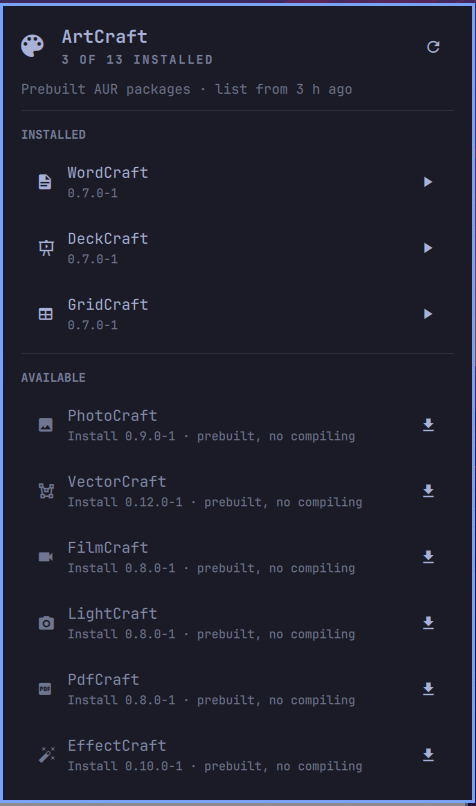
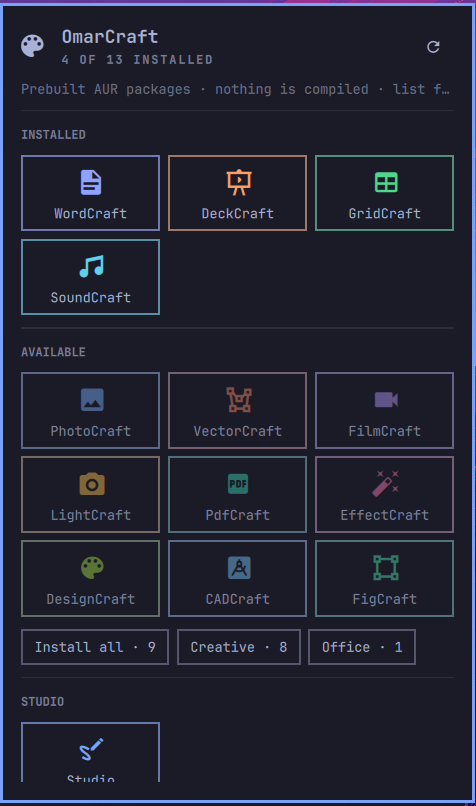
Docs for the two layouts and per-app updates; shorter status line; preview of the tiles
approved-plan decision 6 amended (package-exact updates through the AUR
helper, user decision 2026-10-17) and decision 7 added (tiles/rows under
evaluation); spec, design (tiles mockup, colours, grid movement, confirm
strip), research § F (how tiles vs rows is decided), README, CHANGELOG,
Testing.md and the submission text follow. Acceptance row 13 recorded:
the user's SoundCraft install ran through the panel's job path.

diff --git a/Model.js b/Model.js
@@ -135,7 +135,7 @@ function standingLine(craft) {
                           : "Last job exited with status " + lj.exit + " · see the terminal"
   }
   if (craft.offline) return "Could not reach the AUR · list from " + ageText(craft.catalogAgeSeconds)
-  return "Prebuilt AUR packages · nothing is compiled · list from " + ageText(craft.catalogAgeSeconds)
+  return "Prebuilt · nothing compiled · list from " + ageText(craft.catalogAgeSeconds)
 }
 
 function subtext(app, craft) {

diff --git a/README.md b/README.md
@@ -32,14 +32,23 @@ omarcraft.productivity` finishes the placement. Updates: `omarchy plugin update 
 
 ## The panel
 
-Left-click the icon (or `Tab` from a neighbouring panel).
+Left-click the icon (or `Tab` from a neighbouring panel). Two layouts, switched live with `t` or
+`omarchy bar set omarcraft.productivity layout tiles|rows`:
+
+- **Tiles** (default): three apps per line, each tile the app's glyph in its own ArtCraft colour over its
+  name. Installed tiles are full strength; available ones dimmed. Hover for the version and state. A small
+  `` in a tile's corner means a newer build is ready.
+- **Rows**: one app per line with a caption (`0.7.0-1`, `Update ready 0.7.0-1 → 0.8.0-1`, `Install
+  0.9.0-1 · prebuilt, no compiling`) and one action at the right edge.
+
+In both:
 
 - **Hero.** The one-line situation: `3 OF 13 INSTALLED`, `2 UPDATES READY`, `INSTALLING WORDCRAFT…`,
   `NOTHING INSTALLED YET`, `OFFLINE · CACHED LIST`, `LAST JOB FAILED`. The circular arrow at the right
   checks the AUR now.
-- **INSTALLED.** Your apps with their version. `Enter` or the ▶ action launches one; if its window is
-  already open it is focused instead. A row with a newer build reads `Update ready 0.7.0-1 → 0.8.0-1`
-  and *Update all* appears in the status line.
+- **INSTALLED.** Your apps. `Enter` or a click launches one; if its window is already open it is focused
+  instead. When a newer build is ready, `Enter` asks instead: *Update ⏎* (just that package), *Launch
+  instead*, or *Cancel*. *Update all* in the status line takes every app with a newer build.
 - **AVAILABLE.** The rest, dimmed, with `Install 0.9.0-1 · prebuilt, no compiling`. `Enter` or the
   download action opens a one-line confirm under the row naming the exact package and that a terminal
   will open and ask for your password; `Enter` again runs it, `Esc` cancels. A newly added Craft app shows
@@ -54,8 +63,9 @@ While a job runs the row shows a spinner and `Installing…`, the hero says what
 is greyed out, and the terminal is the place to type your password. When the terminal finishes the panel
 re-reads the package database: what you see is what is installed, never what a click intended.
 
-**Keys:** `j`/`k` move · `Enter` launch or install · `u` Update all · `a` / `c` / `o` install all /
-Creative / Office · `s` Studio · `r` check the AUR · `Tab` neighbouring panel · `Esc` cancel or close.
+**Keys:** `h`/`l` `j`/`k` move (tiles: one tile, one line) · `Enter` launch, update or install · `u` Update
+all · `a` / `c` / `o` install all / Creative / Office · `s` Studio · `r` check the AUR · `t` switch layout ·
+`Tab` neighbouring panel · `Esc` cancel or close.
 
 **Bar icon:** left = panel · right = ArtCraft Studio · middle = check now. While updates are pending the
 icon turns to the urgent colour and shows the count (`2 `); it also turns urgent after a job that failed.
@@ -63,11 +73,11 @@ icon turns to the urgent colour and shows the count (`2 `); it also turns ur
 ## Updates
 
 Every six hours, and whenever you press `r` or middle-click, OmarCraft compares your installed `-bin`
-packages with the AUR. Newer builds show in the rows, on the icon, and once per new set as a desktop
-notification that opens the panel. *Update all* runs Omarchy's own AUR update
-(`omarchy-update-aur-pkgs`, the step `omarchy update` runs), which upgrades every AUR package on the
-system, not only the Craft apps; the confirm line says so. There is no per-app update. "Newer" means a
-newer AUR build exists, which can trail an ArtCraft release by a day or so.
+packages with the AUR. Newer builds show on the tiles or rows, on the icon, and once per new set as a
+desktop notification that opens the panel. Updates are package-exact: `Enter` on the app updates that
+one, *Update all* (`u`) every app with a newer build, each through the AUR helper Omarchy ships, in a
+floating terminal that asks for your password. `omarchy update` updates them too. "Newer" means a newer
+AUR build exists, which can trail an ArtCraft release by a day or so.
 
 ## Apps installed some other way
 
@@ -97,7 +107,7 @@ $P list                       # catalog with install state
 $P launch <id>                # e.g. photocraft
 $P install <id>...            # floating terminal, one run
 $P install-group all|creative|office
-$P update                     # Omarchy's AUR update, in a floating terminal
+$P update [id...]             # the named apps, or every app with a newer build; floating terminal
 $P check [--notify]           # pending updates; exit 0 if any
 $P refresh [-f]               # fetch catalog and AUR versions now
 $P studio
@@ -107,7 +117,8 @@ $P studio
 omarchy-shell omarcraft.productivity open | close | toggle | refresh | studio
 omarchy-shell omarcraft.productivity launch <id>
 omarchy-shell omarcraft.productivity install "<id> <id>"      # no confirm: a script is explicit
-omarchy-shell omarcraft.productivity update
+omarchy-shell omarcraft.productivity update "<id> <id>"      # or "" for every app with a newer build
+omarchy-shell omarcraft.productivity layout tiles|rows
 omarchy-shell omarcraft.productivity status                   # JSON
 ```
 
@@ -141,9 +152,9 @@ plus `$P remove-menu` before removing if you ran `setup-menu`, and the keybindin
 ## Safety
 
 - Only `<id>-bin` package names, checked against the catalog and a strict pattern, ever reach a package
-  command. The plugin never calls sudo or pkexec, and never calls the package manager or the AUR helper
-  directly: installs go through `omarchy-pkg-aur-add`, updates through `omarchy-update-aur-pkgs`, both in
-  a visible Omarchy terminal that asks for your password itself.
+  command. The plugin never calls sudo or pkexec. Installs go through Omarchy's `omarchy-pkg-aur-add`;
+  updates call the AUR helper Omarchy ships for exactly the named packages; both run in a visible Omarchy
+  terminal that asks for your password itself.
 - Network use: the app catalog from `raw.githubusercontent.com` (storytold/craft-launcher) and versions
   from the AUR RPC, every 24 hours, with bounded timeouts; a failed check keeps the old list and says
   `OFFLINE`, never "up to date". The panel itself never waits on the network.
@@ -155,7 +166,8 @@ plus `$P remove-menu` before removing if you ran `setup-menu`, and the keybindin
 | Path | Role |
 |---|---|
 | `manifest.json` | `kinds: ["bar-widget"]`, entry point `Panel.qml`, default section right |
-| `Panel.qml` | Bar icon, `KeyboardPanel`, sections, cursor, confirm line, keys, IPC |
+| `Panel.qml` | Bar icon, `KeyboardPanel`, both layouts, cursor, confirm, keys, IPC |
+| `AppTile.qml` | One tile: glyph in the app's ArtCraft colour over its name |
 | `AppRow.qml` | One row: glyph · name · subtext · right-edge action, Network-panel style |
 | `Service.qml` | Runs `bin/omarcraft state`, watches `job.json`, six-hourly check |
 | `Model.js` | Pure helpers: sections, meta line, subtexts, confirm text |
@@ -183,5 +195,6 @@ Release and marketplace steps: [docs/Publish-Guide.md](docs/Publish-Guide.md). C
 ## Credits and license
 
 MIT, see [LICENSE](LICENSE). By Entangled Forge. The Craft apps, ArtCraft Studio and the app catalog are by
-[Storyteller](https://github.com/storytold); the `-bin` packages are maintained by their AUR packagers. The
-panel follows Omarchy's first-party Network and Power panels and Entangled Forge's OmasteelRGB.
+[Storyteller](https://github.com/storytold), as are the per-app colours, taken from their launcher's catalog;
+the `-bin` packages are maintained by their AUR packagers. The panel follows Omarchy's first-party Network
+and Power panels and Entangled Forge's OmasteelRGB.

diff --git a/docs/v1-design.md b/docs/v1-design.md
@@ -106,15 +106,15 @@ omarchy-pkg-aur-add wordcraft-bin deckcraft-bin; rc=$?   # Omarchy's AUR add: th
 end_job $rc                              # rm job.json; last-job.json {verb, ids, exit, endedAt}
 omarchy-shell -q omarcraft.productivity refresh
 
-# bin/omarcraft job update
-write_job update <all update-ready ids>
-omarchy-update-aur-pkgs; rc=$?           # Omarchy's own AUR updater, the same step `omarchy update` runs
+# bin/omarcraft job update wordcraft      (or no ids: every app with a newer build)
+write_job update wordcraft
+yay -S --noconfirm wordcraft-bin; rc=$?   # package-exact, the helper Omarchy ships
 end_job $rc; omarchy-shell -q omarcraft.productivity refresh
 ```
 
-`omarchy-update-aur-pkgs` upgrades every AUR package, not only the Craft apps; the panel says so on the
-*Update all* control (`Runs Omarchy's AUR update`). That is the trade for staying inside Omarchy's commands;
-the alternative, a package-exact update with a literal helper call, is `approved-plan.md` decision 6.
+> **Amended 2026-10-17:** updates are package-exact. `job update <ids>` runs
+> `yay -S --noconfirm <id>-bin…` (the helper Omarchy ships) for exactly those packages; `omarchy-update-aur-pkgs`
+> is no longer used. See `approved-plan.md` decision 6.
 
 ## Bar
 
@@ -135,7 +135,66 @@ the alternative, a package-exact update with a literal helper call, is `approved
 - Placement: `defaultSection: "right"`, category Productivity; lands with tray, agents, bluetooth,
   network, audio, monitor, power. Never left (navigation) or centre (status and clock).
 
-## Panel
+## Layouts (amended 2026-10-17)
+
+Two layouts share the data, cursor, confirm and job model; `setting("layout", "tiles")` picks one
+(`omarchy bar set omarcraft.productivity layout tiles|rows`, the `t` key, or IPC `layout`, stored inline
+in `shell.json` the way Power stores `showPercentage`). **Tiles** is the default under evaluation; **rows**
+is the first build. The research plan (§ F) decides which ships.
+
+### Tiles: three per line, the app's own colour
+
+```
+   OmarCraft                                  
+     4 OF 13 INSTALLED
+
+ Prebuilt · nothing compiled · list from 3 h ago
+ ────────────────────────────────────────────────
+ INSTALLED
+ ┌──────────┐ ┌──────────┐ ┌──────────┐
+ │         │ │         │ │         │
+ │ WordCraft│ │ DeckCraft│ │ GridCraft│
+ └──────────┘ └──────────┘ └──────────┘
+ ┌──────────┐
+ │       │   ← update mark, urgent colour
+ │SoundCraft│
+ └──────────┘
+ ────────────────────────────────────────────────
+ AVAILABLE
+ ┌──────────┐ ┌──────────┐ ┌──────────┐
+ │         │ │         │ │         │   dimmed: glyph at 45 %, name at 70 %
+ │PhotoCraft│ │VectorCraf│ │ FilmCraft│
+ └──────────┘ └──────────┘ └──────────┘
+ … three lines of three …
+ [ Install all · 9 ]  [ Creative · 8 ]  [ Office · 1 ]
+ ────────────────────────────────────────────────
+ STUDIO
+ ┌──────────┐
+ │         │
+ │  Studio  │
+ └──────────┘
+ h/l j/k move · ⏎ launch, update or install · u update all · a/c/o · s · r · t rows · esc
+```
+
+- `AppTile.qml`: a `CursorSurface` with `bordered: true`; the glyph at `Style.font.display` in the
+  app's **own ArtCraft colour** (the official catalog's ink colour for dark or light panels, chosen by
+  `Color.popups.background` lightness; the surface colour is the fallback), a 1 px outline in the same
+  colour at 45 % (installed) or 18 % (available), the name at `Style.font.bodySmall` in the theme
+  foreground. Nothing else on the tile; the version and state are the tooltip (`Model.tileTip`). The
+  update mark `` sits in the tile's top-right corner in the urgent colour.
+- Colours come from the catalog, through the cache and the state JSON (`color`, `inkLight`, `inkDark`),
+  never from QML constants; Studio uses `Color.accent`. Everything structural stays theme-coloured, the
+  OmasteelRGB balance (its hero glyph is tinted, its chrome is the theme).
+- Grid: `Grid { columns: 3 }`, tile width `(width − 2·6 px) / 3`; cursor movement `Model.gridMove`:
+  `h`/`l` step one tile, `j`/`k` jump a line and stop at the section edge, then land on the next
+  section's first tile.
+- Confirms are one **strip under the status line** (tiles have no room beneath them). Clicking an
+  installed tile with a newer build opens `wordcraft-bin 0.7.0-1 → 0.8.0-1 · via the AUR helper · a
+  terminal opens and asks your password` with *Update ⏎*, *Launch instead*, *Cancel esc*.
+
+### Rows: one per line with a caption (the first build)
+
+The sections below describe the rows layout; everything about data, bar, keys and jobs applies to both.
 
 ### Normal: three installed, one update ready
 

diff --git a/docs/v1-acceptance.md b/docs/v1-acceptance.md
@@ -46,8 +46,8 @@ commit hash. Nothing ships with a FAIL in the *Must* rows.
   closes the line and nothing runs; `Enter` again opens exactly one floating Omarchy terminal running
   exactly one `omarchy-pkg-aur-add <id>-bin`, which prompts for the password and installs with **no**
   `cargo`, `rustc` or `makepkg build` in the process tree at any time.
-- `grep -rE 'sudo|pkexec|yay |pacman -S' --exclude-dir=.git .` in the plugin folder matches only negated
-  sentences in docs; no command string in code.
+- `grep -rE 'sudo|pkexec|pacman -S' --exclude-dir=.git .` in the plugin folder matches only negated
+  sentences in docs; the AUR helper is called in exactly one place in code, the update job.
 - While the job runs: the row shows the spinner and `Installing…`, the hero reads `INSTALLING <NAME>…`,
   every install/update action is disabled, launch of other installed apps still works.
 - When the job ends successfully: within 1 s the row is under INSTALLED with its version, the meta count
@@ -56,9 +56,12 @@ commit hash. Nothing ships with a FAIL in the *Must* rows.
   with every missing `-bin` package on one line; group chips do the same for their group; no launch
   afterwards.
 - With the FigCraft update fixture: meta reads `1 UPDATE READY`, the bar shows `1 ` in the urgent
-  colour, the row shows `Update ready 0.6.0-1 → 99.0.0-1`, *Update all* is visible and `u` opens a confirm
-  line that names Omarchy's AUR update; the badge and the row return to normal after
-  `bin/omarcraft refresh -f`.
+  colour, the FigCraft tile carries the update mark (row: `Update ready 0.6.0-1 → 99.0.0-1`), *Update
+  all* is visible; `Enter` on FigCraft opens a confirm naming `figcraft-bin 0.6.0-1 → 99.0.0-1` with
+  *Update ⏎*, *Launch instead*, *Cancel*; *Launch instead* launches; the badge and the mark return to
+  normal after `bin/omarcraft refresh -f`.
+- `omarchy bar set omarcraft.productivity layout rows` and `… tiles`, and the `t` key, switch the layout
+  live with the panel open; the cursor, confirm and job state survive the switch.
 - Opening the panel with the network down (`nmcli networking off`) shows the cached list, the meta
   `OFFLINE · CACHED LIST`, and never a blank or "Detecting…" panel; `state` still returns in < 0.3 s.
 - A job whose terminal is killed mid-way leaves no `job.json` older than 30 min reported as running;
@@ -103,7 +106,7 @@ commit hash. Nothing ships with a FAIL in the *Must* rows.
 | 10 | No `sudo`, `pkexec`, helper or `pacman -S` string in code | e7d2615 | PASS | test `no package-manager or privilege strings in the script`; docs use negations only |
 | 11 | Offline tests | e7d2615 | PASS | 71 passed |
 | 12 | Shell loads the plugin with no QML error | e7d2615 | PASS | log clean after `omarchy restart shell`; one transient "File name case mismatch" from the old shell during the git fast-forward, gone after restart |
-| 13 | Real install: one terminal, one Omarchy command, no compiling, row moves to INSTALLED, app launches | | pending | needs the user's password; Testing.md § 3 |
+| 13 | Real install: one terminal, one Omarchy command, no compiling, row moves to INSTALLED, app launches | 17ce259 | PASS (user) | SoundCraft installed by the user through the panel at 17:34: `last-job.json` `install soundcraft` exit 0, `soundcraft-bin 0.7.0-1` present, tile shown under INSTALLED on the next open |
 | 14 | Group install, one command with every package | | pending | Testing.md § 4 |
 | 15 | Studio opens as a web app, second open focuses | | pending | Testing.md § 5 |
 | 16 | Update state: badge, row, *Update all*, one notification | | pending | Testing.md § 6 |

diff --git a/docs/v1-spec.md b/docs/v1-spec.md
@@ -60,10 +60,11 @@ its row says `Source build · updates via omarchy update`.
 7. **Group install**: chips *Install all (N)*, *Creative (N)*, *Office (N)* under the available rows, each
    showing how many are missing; hidden when nothing is missing. Same inline confirm, listing the names.
    One job, every package on one `omarchy-pkg-aur-add` line, no launch afterwards.
-8. **Update**: `u` or *Update all* in the hero's caption line, after a confirm line that says it runs
-   Omarchy's AUR update (`omarchy-update-aur-pkgs`, the step `omarchy update` runs, which upgrades every
-   AUR package). There is no per-app update. The plugin contains no `yay`, `pacman -S` or `sudo` string;
-   privileged work is delegated to Omarchy's commands.
+8. **Update** (amended 2026-10-17): package-exact. `Enter` or a click on an installed app with a newer
+   build asks to update that app (*Update ⏎* / *Launch instead* / *Cancel*); `u` or *Update all* asks
+   for every app with a newer build. The job runs `yay -S --noconfirm <id>-bin…`, the helper Omarchy
+   ships and uses itself, inside Omarchy's floating terminal. Installs still go through
+   `omarchy-pkg-aur-add`. The plugin contains no `sudo` or `pkexec`.
 9. **Job tracking**: the terminal run writes `job.json` on start and removes it on exit (success or
    failure, with the exit status kept in `last-job.json`). While it exists, the involved rows show a
    spinning glyph and `Installing…`, every action is disabled, the hero says what runs. When it goes, the
@@ -100,8 +101,8 @@ state directories without an opt-in command.
 - Enabling the plugin installs nothing and writes no configuration. Opening the panel installs nothing.
 - Only `<id>-bin` package names ever reach a package command; the script validates ids against the catalog
   and the regex `^[a-z0-9-]+$` and refuses anything else.
-- No sudo, no pkexec, no direct package-manager call in the plugin: installs and updates go through
-  `omarchy-pkg-aur-add` and `omarchy-update-aur-pkgs`, which prompt for the password in a visible
+- No sudo, no pkexec in the plugin. Installs go through `omarchy-pkg-aur-add`; updates call the AUR
+  helper Omarchy ships, for the named `-bin` packages only; both prompt for the password in a visible
   terminal. Installed state is read, never written, by the plugin.
 - State shown is state read: after every job the panel shows pacman's answer, never the click's intent.
 - Every string in the panel is short enough not to elide at `Style.space(380)` with the hero's uppercase
@@ -143,6 +144,8 @@ Apps are listed in catalog order; the panel sorts them into sections.
    release; upstream Classic/New not shown.
 5. One-shot `state` command (local only) and a watched `job.json`, not a resident bridge; jobs in
    Omarchy's floating presentation terminal.
-6. Package work delegated to Omarchy's commands (`omarchy-pkg-aur-add`, `omarchy-update-aur-pkgs`);
-   consequently no per-app update, and *Update all* is Omarchy's AUR update.
+6. Installs through `omarchy-pkg-aur-add`; updates package-exact through the AUR helper Omarchy ships
+   (amended 2026-10-17; marketplace path `review-required`).
 7. Studio remains a web app.
+8. Two layouts, tiles (default) and rows, switchable; the app's own ArtCraft colour on tiles (amended
+   2026-10-17).

diff --git a/CHANGELOG.md b/CHANGELOG.md
@@ -7,13 +7,17 @@ packages.
 
 - Bar icon in the right section: left = panel, right = ArtCraft Studio, middle = check the AUR. Urgent
   colour with the pending count while updates are ready, urgent after a failed job.
-- Native panel (`KeyboardPanel`): hero with the one-line situation, INSTALLED / AVAILABLE / STUDIO sections,
-  one row per app with glyph, name, status and a right-edge action; available rows dimmed; group chips
-  *Install all*, *Creative*, *Office* with counts; inline confirm naming the package before any install
-  and before *Update all*; spinner and greyed actions while a job runs; `j/k`, `Enter`, `u`, `a/c/o`,
-  `s`, `r`, `Tab`, `Esc`.
-- Jobs run in Omarchy's floating presentation terminal through Omarchy's own commands
-  (`omarchy-pkg-aur-add`, `omarchy-update-aur-pkgs`); `job.json` while running, `last-job.json` after;
+- Native panel (`KeyboardPanel`): hero with the one-line situation, INSTALLED / AVAILABLE / STUDIO
+  sections, group chips *Install all*, *Creative*, *Office* with counts, a confirm naming the package
+  before any install or update, spinner and greyed actions while a job runs, `h/l j/k`, `Enter`, `u`,
+  `a/c/o`, `s`, `r`, `t`, `Tab`, `Esc`.
+- Two layouts, switchable live (`omarchy bar set omarcraft.productivity layout tiles|rows`, `t`, IPC):
+  **tiles**, three per line with the glyph in the app's own ArtCraft colour (from the official catalog)
+  over its name, installed full and available dimmed, an update mark in the corner; **rows**, one per
+  line with a caption and a right-edge action.
+- Clicking an installed app with a newer build asks: *Update* (that package), *Launch instead*, *Cancel*.
+- Jobs run in Omarchy's floating presentation terminal: installs through `omarchy-pkg-aur-add`, updates
+  package-exact through the AUR helper Omarchy ships; `job.json` while running, `last-job.json` after;
   the panel re-reads the package database when a job ends and reports an interrupted job as such.
 - Data: catalog from the official ArtCraft Launcher with a built-in fallback, versions from one AUR RPC
   request, cached 24 h; `state` reads local files only; a failed refresh keeps the old data and reports
@@ -21,10 +25,9 @@ packages.
 - ArtCraft Studio as an Omarchy web app.
 - IPC: `open`, `close`, `toggle`, `refresh`, `status`, `launch`, `install`, `update`, `studio`.
 - Opt-in only: an ArtCraft section in the Omarchy menu and a documented keybinding line.
-- 71 offline tests with every external command stubbed.
+- 79 offline tests with every external command stubbed.
 
-Not in this release: per-app update (Omarchy's AUR update is all-or-nothing), removing apps, AppImage or
-Flatpak installs, the official launcher, building Studio.
+Not in this release: removing apps, AppImage or Flatpak installs, the official launcher, building Studio.
 
 ### Superseded during development (never released)
 

diff --git a/docs/marketplace-submission.md b/docs/marketplace-submission.md
@@ -7,7 +7,7 @@ launcher, bar, quickshell
 ### Suggest a missing tag
 apps
 ### Maintainer notes
-Unofficial bar panel for the ArtCraft Craft apps by Storyteller (PhotoCraft, FilmCraft, WordCraft and ten more) plus ArtCraft Studio as a web app. A native KeyboardPanel shows installed, available and update-ready apps with one action per row: launch, install one app or a group, update. Only the prebuilt <id>-bin AUR packages are installed, so nothing is compiled, and every package operation is delegated to Omarchy's own commands (omarchy-pkg-aur-add, omarchy-update-aur-pkgs) inside Omarchy's floating presentation terminal. No sudo or pkexec is called by the plugin, and it never invokes the package manager or an AUR helper itself; the password prompt belongs to the Omarchy command in the open terminal. Installed state is read from the local package database. Network use: the app catalog from raw.githubusercontent.com (storytold/craft-launcher) and versions from the AUR RPC, every 24 hours with bounded timeouts. The plugin changes no user configuration on its own: the Omarchy menu section and the keybinding are opt-in commands documented in the README.
+Unofficial bar panel for the ArtCraft Craft apps by Storyteller (PhotoCraft, FilmCraft, WordCraft and ten more) plus ArtCraft Studio as a web app. A native KeyboardPanel shows installed, available and update-ready apps with one action per row: launch, install one app or a group, update. Only the prebuilt <id>-bin AUR packages are installed, so nothing is compiled. Installs go through Omarchy's omarchy-pkg-aur-add; updates are package-exact and call the AUR helper Omarchy ships (yay -S <id>-bin) for the named packages only, both inside Omarchy's floating presentation terminal. No sudo or pkexec is called by the plugin; the password prompt belongs to the helper in the open terminal. Package names are validated against the app catalog and a strict pattern before they reach any command. Installed state is read from the local package database. Network use: the app catalog from raw.githubusercontent.com (storytold/craft-launcher) and versions from the AUR RPC, every 24 hours with bounded timeouts. The plugin changes no user configuration on its own: the Omarchy menu section and the keybinding are opt-in commands documented in the README.
 ### Submission checklist
 - [x] The repository is public and contains installation and removal instructions.
 - [x] I have documented the plugin license and any external dependencies.

diff --git a/docs/v1-research.md b/docs/v1-research.md
@@ -115,6 +115,26 @@ Studio, notice an update, remove), with Omarchy users who have never seen OmarCr
 nothing. Pass bar: 4 of 5 complete tasks 1–4 without a hint; nobody misreads installed vs. available; median
 ease ≥ 5 of 7. Cost: one week including recruiting in the Omarchy Discord.
 
+### F. Tiles against rows (added 2026-10-17)
+
+The user asked for a tiles layout (three per line, the app's own colour) as a new version and for an
+evaluation of whether it improves usability. Both layouts ship in one build, switched live with
+`omarchy bar set omarcraft.productivity layout tiles|rows` or the `t` key, so the comparison is on the
+same data, machine and day.
+
+- **Who:** the author and one colleague (D's diary group), then the five E participants, each session
+  running both layouts in alternating order (half start with tiles).
+- **Tasks, timed, both layouts:** T2 "which apps do you have?" (state at a glance), T3 "install
+  <app>" (find and act), T6 "anything to update?" (notice the mark), plus "open <installed app>".
+- **Measures:** time to answer T2 correctly; errors (naming an available app as installed or the
+  reverse); clicks or keys to complete T3; whether the update mark is noticed unprompted; stated
+  preference and one reason.
+- **Decision rule, written now:** tiles ship as the only layout if T2 is faster and at least as accurate
+  for 4 of 5 participants and preference is ≥ 3 of 5; rows ship alone if the reverse; otherwise both
+  stay with tiles as default and the question goes to the survey (C) with the two screenshots.
+- **What the design predicts:** tiles win T2 (colour and density) and T6 (the mark); rows win T3 for
+  first-time users (the caption says "Install 0.9.0 · prebuilt"); the tooltip is meant to close that gap.
+
 ## Timeline
 
 | When | What | Gate |

diff --git a/docs/approved-plan.md b/docs/approved-plan.md
@@ -177,10 +177,19 @@ validated by the cache trick in `docs/Testing.md` § 6 and, when it happens, by 
    stays in the data but is not shown. The research plan's survey confirms or changes the mapping before
    release.
 5. **Studio stays a web app**, one row in its own section, right click on the bar icon as the shortcut.
-6. **Package work through Omarchy's commands** (`omarchy-pkg-aur-add`, `omarchy-update-aur-pkgs`),
+6. ~~**Package work through Omarchy's commands** (`omarchy-pkg-aur-add`, `omarchy-update-aur-pkgs`),
    aiming for a *passed* baseline. Consequence: *Update all* is Omarchy's AUR update (every AUR package),
-   no per-app update. Alternative: call the AUR helper directly for package-exact updates and accept
-   `review-required`, the path OmasteelRGB took and got approved on.
+   no per-app update.~~
+
+   > **Amended 2026-10-17 (user decision, after using the panel):** updates are **package-exact**.
+   > `omarcraft update [id…]` calls the AUR helper Omarchy ships (`yay -S --noconfirm <id>-bin…`) for
+   > exactly those packages; clicking an installed app with a newer build asks to update that app.
+   > Installs keep going through `omarchy-pkg-aur-add`. The marketplace outcome is therefore
+   > `review-required` (`package-manager`), the path OmasteelRGB took and was approved on.
+7. **Two layouts under evaluation, switchable** (added 2026-10-17): *tiles* (three per line, glyph in the
+   app's own ArtCraft colour, name only; default) and *rows* (one per line with a caption).
+   `omarchy bar set omarcraft.productivity layout tiles|rows`, the `t` key, or IPC `layout`. The loser is
+   removed before release; `v1-research.md` § F says how the choice is made.
 
 ## Out of scope until asked
 

diff --git a/docs/Testing.md b/docs/Testing.md
@@ -27,7 +27,8 @@ audio, monitor, power. Nothing installed, nothing written under `~/.config`. If 
 | Do | Expect |
 |---|---|
 | Left-click the icon | Panel under the icon within a second: hero `ArtCraft` + `N OF 13 INSTALLED`, status line `Prebuilt AUR packages · list from …` |
-| Read the sections | INSTALLED (your apps, version, ▶), AVAILABLE (dimmed, `Install x.y.z · prebuilt, no compiling`, download glyph), chips `Install all · N` `Creative · N` `Office · N`, STUDIO |
+| Read the sections (tiles) | INSTALLED tiles in each app's colour, AVAILABLE tiles dimmed, chips `Install all · N` `Creative · N` `Office · N`, a Studio tile; hover a tile for its version |
+| `t` | Rows: INSTALLED (version, ▶), AVAILABLE (dimmed, `Install x.y.z · prebuilt, no compiling`, download glyph); `t` again returns to tiles |
 | `j` four times | First press activates the cursor on the first row, then it moves down one row per press; the list scrolls to keep it in view |
 | `Tab` | The neighbouring bar panel opens instead |
 | `Esc` | Panel closes; a click outside closes it too |
